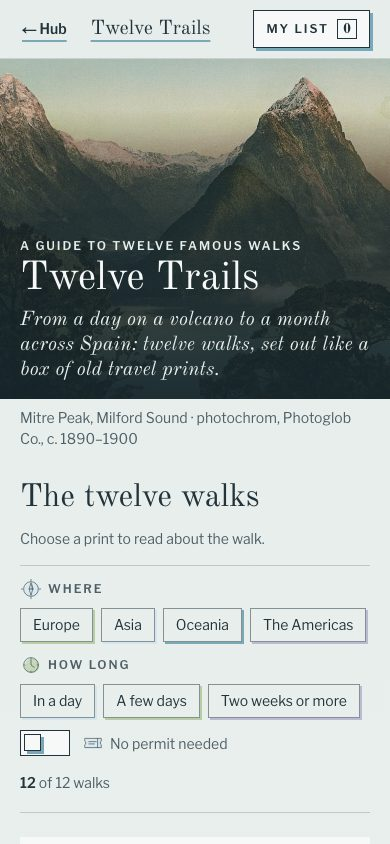
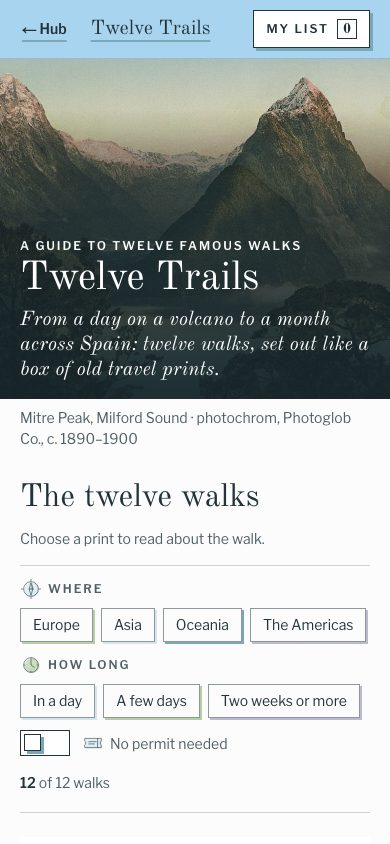
feat: Dawn warms up: dawn sky field, first-light gold for chosen things, photos in their own colour

diff --git a/src/app/design-systems/dawn/page.tsx b/src/app/design-systems/dawn/page.tsx
@@ -4,7 +4,7 @@ import { CONTROL_STATES, ratio, type ControlState } from "@/lib/contrast";
 import { hikes } from "@/data/hikes";
 import { PLATE_ICON_NAMES, PlateDefs, PlateIcon, type PlateIconName } from "@/components/dawn/PlateArt";
 import { DayPlates, EmbossStamp, PLATE_KEYFRAMES } from "@/components/dawn/PlateUI";
-import { DAWN_FOCUS_CSS, DW, caps, display, ui } from "@/components/dawn/ds/tokens";
+import { DAWN_FIELD, DAWN_FOCUS_CSS, DW, caps, display, ui } from "@/components/dawn/ds/tokens";
 import { CatalogueSearch, CountBadge, MountInput, MountSelect, PlateCheck, PlateLink, PlateRadio, PrimaryButton, RadioSwatch, SecondaryButton } from "@/components/dawn/ds/Primitives";
 import { ChipSwatch, PlateChips, PlateTabs, PlateToggle, RouteMap, TabSwatch } from "@/components/dawn/ds/Interactive";
 import { CardSwatch, CatalogueRow, DetailPanel, UIStates } from "@/components/dawn/ds/Pieces";
@@ -55,13 +55,14 @@ function Block({ title, note, children, className = "" }: { title: string; note?
 /* ---------- 1. colour roles ---------- */
 
 const ROLES = [
-  { role: "Background", hex: DW.page, use: "The pale sky of the prints", checks: [] as [string, string, string][] },
+  { role: "Background", hex: DW.page, use: "A white page for reading", checks: [] as [string, string, string][] },
+  { role: "Dawn field", hex: DW.dawnTop, use: "Sky to first light, behind the opening and the bar", checks: [["key ink at the top", DW.text, DW.dawnTop], ["key ink at the horizon", DW.text, DW.dawnLow]] },
   { role: "Surface", hex: DW.surface, use: "The mount a print sits on", checks: [] },
   { role: "Text", hex: DW.text, use: "Key-plate ink, never black", checks: [["on background", DW.text, DW.page], ["on surface", DW.text, DW.surface]] },
   { role: "Muted text", hex: DW.muted, use: "Captions, meta, placeholders", checks: [["on background", DW.muted, DW.page], ["on surface", DW.muted, DW.surface]] },
   { role: "Border", hex: DW.border, use: "Field and control edges", checks: [["on background (3:1 needed)", DW.border, DW.page]] },
   { role: "Accent", hex: DW.accent, use: "Loch, for the one primary action", checks: [["mount text on it", DW.surface, DW.accent]] },
-  { role: "Tints", hex: DW.pine, use: "Sky (hover), pine (selected), lake (pressed, best), heather: plates only, key ink on top", checks: [["key ink on pine", DW.text, DW.pine], ["key ink on lake", DW.text, DW.lake]] },
+  { role: "Tints", hex: DW.sun, use: "Sun (selected, best), sky (hover), lake (pressed), pine and heather (chips): plates only, key ink on top", checks: [["key ink on sun", DW.text, DW.sun], ["key ink on lake", DW.text, DW.lake]] },
 ] satisfies { role: string; hex: string; use: string; checks: [string, string, string][] }[];
 
 function ColourRoles() {
@@ -70,14 +71,16 @@ function ColourRoles() {
       {ROLES.map((r) => (
         <div key={r.role} className="bg-dw-mount p-3">
           {r.role === "Tints" ? (
-            <div className="grid h-12 grid-cols-4 border border-dw-ink sm:h-20">
-              {[DW.pine, DW.sky, DW.lake, DW.heather].map((c) => <span key={c} style={{ background: c }} />)}
+            <div className="grid h-12 grid-cols-5 border border-dw-ink sm:h-20">
+              {[DW.sun, DW.sky, DW.lake, DW.pine, DW.heather].map((c) => <span key={c} style={{ background: c }} />)}
             </div>
+          ) : r.role === "Dawn field" ? (
+            <div className="h-12 border border-dw-ink sm:h-20" style={{ background: DAWN_FIELD }} />
           ) : (
-            <div className="h-12 border border-dw-ink shadow-[3px_3px_0_0_var(--color-dw-sky)] sm:h-20" style={{ background: r.hex }} />
+            <div className="h-12 border border-dw-ink shadow-[3px_3px_0_0_var(--color-dw-lake)] sm:h-20" style={{ background: r.hex }} />
           )}
           <p className={`${display} mt-3 text-xl leading-none`}>{r.role}</p>
-          <p className={`${ui} mt-1 text-xs text-dw-muted`}>{r.role === "Tints" ? `${DW.pine} ${DW.sky} ${DW.lake} ${DW.heather}` : r.hex} · {r.use}</p>
+          <p className={`${ui} mt-1 text-xs text-dw-muted`}>{r.role === "Tints" ? `${DW.sun} ${DW.sky} ${DW.lake} ${DW.pine} ${DW.heather}` : r.role === "Dawn field" ? `${DW.dawnTop} → ${DW.dawnLow}` : r.hex} · {r.use}</p>
           {r.checks.map(([label, fg, bg]) => (
             <p key={label} className={`${ui} text-xs`}>
               <span className="font-semibold">{ratio(fg, bg)}</span> <span className="text-dw-muted">{label}</span>

diff --git a/src/components/dawn/ds/Interactive.tsx b/src/components/dawn/ds/Interactive.tsx
@@ -13,7 +13,7 @@ import { t12, t14, t24 } from "./type";
 /** One tab in a forced state. Selected: a pine plate under the label, a key rule beneath, in register. */
 export function TabSwatch({ force, label = "Route" }: { force: ControlState; label?: string }) {
   const plate =
-    force === "selected" ? { bg: DW.pine, t: "translate(0,0)", o: 1 } :
+    force === "selected" ? { bg: DW.sun, t: "translate(0,0)", o: 1 } :
     force === "hover" ? { bg: DW.sky, t: "translate(0,0)", o: 1 } :
     force === "pressed" ? { bg: DW.lake, t: "translate(0,0)", o: 0.6 } : null;
   return (
@@ -52,7 +52,7 @@ export function PlateTabs({ tabs, panels, idPrefix = "dw", panelClassName }: { t
               }}
               className={`group relative whitespace-nowrap px-3 pb-2 pt-2.5 ${ui} text-sm ${on ? "font-semibold text-dw-ink" : "text-dw-ink"} active:translate-y-px ${focusRing}`}
             >
-              <span aria-hidden="true" className={`absolute inset-x-0 bottom-0 top-1 ${slow} ${on ? "translate-x-0 translate-y-0 bg-dw-pine opacity-100" : "translate-x-[3px] translate-y-[6px] bg-dw-sky opacity-0 group-hover:translate-x-0 group-hover:translate-y-0 group-hover:opacity-100 group-active:bg-dw-lake/60"}`} />
+              <span aria-hidden="true" className={`absolute inset-x-0 bottom-0 top-1 ${slow} ${on ? "translate-x-0 translate-y-0 bg-dw-sun opacity-100" : "translate-x-[3px] translate-y-[6px] bg-dw-sky opacity-0 group-hover:translate-x-0 group-hover:translate-y-0 group-hover:opacity-100 group-active:bg-dw-lake/60"}`} />
               <span className="relative">{t}</span>
               <span aria-hidden="true" className={`absolute inset-x-0 -bottom-px h-[3px] bg-dw-ink ${slow} ${on ? "scale-x-100" : "scale-x-0"}`} />
             </button>
@@ -126,8 +126,8 @@ export function PlateToggle({ label, icon, initial = false, force, checked, onCh
   const knobShadow = on || force === "hover" ? `0 0 0 0 ${DW.lake}` : force === "pressed" ? `inset 0 1px 2px rgba(34,51,58,.4)` : `3px 3px 0 0 ${DW.lake}`;
   const track = (
     <span
-      className={`relative block h-[26px] w-[50px] shrink-0 border-[1.5px] ${disabled ? "border-dashed border-dw-muted" : "border-dw-ink"} ${force ? "" : "group-hover:!bg-dw-sky group-active:!bg-dw-lake dw-crop"} ${on && !force ? "group-hover:!bg-dw-pine" : ""} ${force === "focus" ? focusForced : ""}`}
-      style={{ background: on ? DW.pine : force === "pressed" ? DW.lake : force === "hover" ? DW.sky : DW.surface, transition: move }}
+      className={`relative block h-[26px] w-[50px] shrink-0 border-[1.5px] ${disabled ? "border-dashed border-dw-muted" : "border-dw-ink"} ${force ? "" : "group-hover:!bg-dw-sky group-active:!bg-dw-lake dw-crop"} ${on && !force ? "group-hover:!bg-dw-sun" : ""} ${force === "focus" ? focusForced : ""}`}
+      style={{ background: on ? DW.sun : force === "pressed" ? DW.lake : force === "hover" ? DW.sky : DW.surface, transition: move }}
     >
       <span
         className={`absolute top-[3px] h-[17px] w-[17px] border-[1.5px] bg-dw-mount ${disabled ? "border-dashed border-dw-muted" : "border-dw-ink"} ${force ? "" : "group-hover:!shadow-none group-active:translate-y-px"}`}

diff --git a/src/app/trails/TrailsIndex.tsx b/src/app/trails/TrailsIndex.tsx
@@ -1,6 +1,7 @@
 "use client";
 // The index: the title beside one opening print, then all twelve walks as mounted prints you can take in at a glance.
 import { useMemo } from "react";
+import { DAWN_FIELD } from "@/components/dawn/ds/tokens";
 import { hikes } from "@/data/hikes";
 import rawPhotos from "@/data/trailPhotos.json";
 import { TonedPhoto, creditLine, type TrailPhoto } from "@/components/dawn/Toned";
@@ -39,23 +40,24 @@ export default function TrailsIndex() {
         </figure>
       </header>
 
-      {/* From 640px: the title beside the mounted print. */}
-      <header className="mt-14 hidden grid-cols-1 items-center gap-8 sm:grid lg:grid-cols-[1fr_1.1fr] lg:gap-12">
+      {/* From 640px: the title beside the mounted print, on the dawn field (sky to first light), the full width of the window. */}
+      <header className="relative isolate hidden grid-cols-1 items-center gap-8 py-14 sm:grid lg:grid-cols-[1fr_1.1fr] lg:gap-12">
+        <span aria-hidden="true" className="absolute inset-y-0 left-1/2 -z-10 w-screen -translate-x-1/2" style={{ background: DAWN_FIELD }} />
         <div>
-          <p className={`${t12} text-dw-muted`}>A guide to twelve famous walks</p>
+          <p className={`${t12} text-dw-ink`}>A guide to twelve famous walks</p>
           <h1 className={`${t96} mt-4`}>Twelve Trails</h1>
-          <p className={`${t24} mt-6 max-w-md italic text-dw-muted`}>From a day on a volcano to a month across Spain: twelve walks, set out like a box of old travel prints.</p>
+          <p className={`${t24} mt-6 max-w-md italic text-dw-ink`}>From a day on a volcano to a month across Spain: twelve walks, set out like a box of old travel prints.</p>
           <p className="mt-8"><PlateLink href="#walks" size="note">See the twelve walks ↓</PlateLink></p>
         </div>
         <figure className="m-0">
           <div className="bg-dw-mount p-3.5 shadow-[0_1px_0_rgba(34,51,58,.15)]">
             <TonedPhoto photo={OPENING} sizes="(min-width: 1024px) 600px, 100vw" priority className="aspect-[4/3] border-[3px] border-dw-ink" />
           </div>
-          <figcaption className={`${t14} mt-3 text-dw-muted`}>{creditLine(OPENING)}</figcaption>
+          <figcaption className={`${t14} mt-3 text-dw-ink`}>{creditLine(OPENING)}</figcaption>
         </figure>
       </header>
 
-      <section id="walks" aria-labelledby="walks-title" className="mt-8 scroll-mt-16 sm:mt-28">
+      <section id="walks" aria-labelledby="walks-title" className="mt-8 scroll-mt-16 sm:mt-16">
         <div className="flex flex-wrap items-baseline justify-between gap-3">
           <h2 id="walks-title" className={t48}>The twelve walks</h2>
           <p className={`${t14} text-dw-muted`}>Choose a print to read about the walk.</p>

diff --git a/src/components/dawn/ds/Guide.tsx b/src/components/dawn/ds/Guide.tsx
@@ -62,7 +62,7 @@ export const stopState: Record<ControlState, string> = {
   hover: "bg-dw-sky shadow-none",
   focus: "bg-dw-mount shadow-[2px_2px_0_0_var(--color-dw-lake)] dw-crop is-focus",
   pressed: "translate-y-px bg-dw-lake shadow-[inset_0_2px_4px_rgba(34,51,58,.45)]",
-  selected: "bg-dw-pine shadow-[inset_0_-3px_0_0_var(--color-dw-ink)]",
+  selected: "bg-dw-sun shadow-[inset_0_-3px_0_0_var(--color-dw-ink)]",
   disabled: "",
 };
 
@@ -71,10 +71,10 @@ export function StopSwatch({ force }: { force: ControlState }) {
   return <span className={`${stopBase} ${stopState[force]}`}><PlateIcon name="mountain" size={28} /></span>;
 }
 
-/** Each month is a small plate. Best: the deepest tint, printed, with a key rule beneath. Possible: a pale wash.
+/** Each month is a small plate. Best: the sun plate (first light), printed, with a key rule beneath. Possible: a pale wash.
  *  Closed or not advised: left unprinted, a dashed outline, the same mark as a disabled control. */
 const LEVEL: Record<Level, { label: string; look: string }> = {
-  best: { label: "Best", look: "border-dw-ink bg-dw-lake text-dw-ink shadow-[inset_0_-3px_0_0_var(--color-dw-ink)]" },
+  best: { label: "Best", look: "border-dw-ink bg-dw-sun text-dw-ink shadow-[inset_0_-3px_0_0_var(--color-dw-ink)]" },
   possible: { label: "Possible", look: "border-dw-border bg-dw-sky text-dw-ink" },
   closed: { label: "Closed or not advised", look: "border-dashed border-dw-border bg-transparent text-dw-muted" },
 };
@@ -145,7 +145,7 @@ export function HeroPlate({ photo, count, onOpen, label, priority = false }: { p
   return (
     <button type="button" onClick={onOpen} aria-label={label} className={`group block w-full text-left sm:p-3.5 ${card.rest} ${cardLive}`}>
       <TonedPhoto photo={photo} sizes="(min-width: 1024px) 660px, 100vw" priority={priority} className={`aspect-[3/2] sm:aspect-[4/3] sm:border-[3px] sm:border-dw-ink ${colourUp}`} />
-      <span className={`${t12} absolute bottom-3 right-3 flex items-center gap-1.5 border sm:bottom-7 sm:right-7 border-dw-ink bg-dw-mount px-3 py-2 transition-colors duration-[600ms] group-hover:bg-dw-pine`}><PlateIcon name="camera" size={20} />{count} plates →</span>
+      <span className={`${t12} absolute bottom-3 right-3 flex items-center gap-1.5 border sm:bottom-7 sm:right-7 border-dw-ink bg-dw-mount px-3 py-2 transition-colors duration-[600ms] group-hover:bg-dw-sky`}><PlateIcon name="camera" size={20} />{count} plates →</span>
     </button>
   );
 }

diff --git a/src/components/dawn/Toned.tsx b/src/components/dawn/Toned.tsx
@@ -1,6 +1,7 @@
 "use client";
-// A trail photo. Photochrom prints are shown as they are; modern photos get treatment A, the photochrom look:
-// half the colour lifted out, warm cream in the highlights, soft contrast, lifted blacks. Chosen 11 Oct 2026.
+// A trail photo, shown in its own colour: photochrom prints as printed, modern photos as taken. (Until 11 Oct 2026
+// modern photos were toned to look old, treatment A; it made the guide feel grey, so the site dropped it. The mood
+// board still shows the treatment as an early decision.)
 // While it loads, the frame shows the tint plates printing, sky first; once loaded the photo's colour fades in.
 // If it fails, the frame says so in Dawn's error state.
 import { useEffect, useRef, useState } from "react";
@@ -53,7 +54,6 @@ function NotPrinted({ alt }: { alt: string }) {
 
 /** `force` shows a state on purpose, for the design system. */
 export function TonedPhoto({ photo, sizes, priority = false, className = "", force }: { photo: TrailPhoto; sizes: string; priority?: boolean; className?: string; force?: PhotoState }) {
-  const modern = photo.kind === "modern";
   const ref = useRef<HTMLImageElement>(null);
   const [live, setLive] = useState<PhotoState>("loading");
   // an image can finish before the page wakes up; read where it got to
@@ -77,9 +77,7 @@ export function TonedPhoto({ photo, sizes, priority = false, className = "", for
             onLoad={() => setLive("ready")}
             onError={() => setLive("error")}
             className={`object-cover transition-opacity duration-[600ms] ease-[cubic-bezier(.45,0,.2,1)] ${state === "ready" ? "opacity-100" : "opacity-0"}`}
-            style={modern ? { filter: TONE_FILTER } : undefined}
           />
-          {modern && state === "ready" && <span aria-hidden="true" className="absolute inset-0 opacity-55 mix-blend-soft-light" style={{ background: TONE_OVERLAY }} />}
         </>
       )}
       {state === "error" && <NotPrinted alt={photo.alt} />}
@@ -89,5 +87,5 @@ export function TonedPhoto({ photo, sizes, priority = false, className = "", for
 
 /** One line of credit, as the prints carried theirs. */
 export function creditLine(p: TrailPhoto): string {
-  return p.kind === "photochrom" ? `${p.place} · photochrom, ${p.author}, ${p.date}` : `${p.place} · photo ${p.author} / Unsplash, toned`;
+  return p.kind === "photochrom" ? `${p.place} · photochrom, ${p.author}, ${p.date}` : `${p.place} · photo ${p.author} / Unsplash`;
 }

diff --git a/src/app/mood-boards/dawn/page.tsx b/src/app/mood-boards/dawn/page.tsx
@@ -22,10 +22,11 @@ const PAGE = "linear-gradient(180deg, var(--color-dw-page) 0%, var(--color-dw-pa
 const PALETTE = [
   { name: "Key", hex: "#22333a", role: "Text, key lines · 12.36:1", swatch: "key", from: "Deep water, Milford Sound, darkened" },
   { name: "Loch", hex: "#2c5868", role: "The one action · 7.33:1", swatch: "loch", from: "Loch Linnhe, darkened for contrast" },
+  { name: "Sun", hex: T.sun, role: "Selected, best", swatch: "sun", from: "Sunlit sky over Chamonix, moved toward yellow" },
   { name: "Sky", hex: T.sky, role: "Hover", swatch: "sky", from: "Sky over the Mer de Glace, cooled toward blue" },
-  { name: "Pine", hex: T.pine, role: "Selected", swatch: "pine", from: "The meadow by Mirror Lake, as printed" },
-  { name: "Lake", hex: T.lake, role: "Pressed, best", swatch: "lake", from: "Water of Milford Sound, lightened and cooled" },
-  { name: "Heather", hex: T.heather, role: "Tint", swatch: null, from: "Derived: a cool lilac for rock in shadow" },
+  { name: "Lake", hex: T.lake, role: "Pressed", swatch: "lake", from: "Water of Milford Sound, lightened and cooled" },
+  { name: "Pine", hex: T.pine, role: "Chips, marks", swatch: "pine", from: "The meadow by Mirror Lake, as printed" },
+  { name: "Heather", hex: T.heather, role: "Chips, marks", swatch: null, from: "Derived: a cool lilac for rock in shadow" },
 ];
 
 /* ---------- pieces made for this board ---------- */
@@ -177,7 +178,7 @@ const tiles: Tile[] = [
   { kind: "made", id: "stamp", caption: "Badge: an embossed stamp, pressed into the mount" },
   { kind: "made", id: "button-states", caption: "Button states: rest, in register, pressed, focus, unprinted" },
   { kind: "photo", file: "lake-te-anau.jpg", caption: "Lake Te Anau: still water, one small boat" },
-  { kind: "made", id: "treatment", caption: "A modern photo joins the set: toned like the prints, half the colour out, warm cream highlights" },
+  { kind: "made", id: "treatment", caption: "Early idea: tone modern photos like the prints. Dropped on the site: it made the guide grey" },
   { kind: "photo", file: "chamonix-floria.jpg", caption: "The Chamonix valley, where the Tour du Mont Blanc begins" },
   { kind: "photo", file: "cleddau-valley.jpg", caption: "Cleddau Valley, Milford Sound: one figure for scale" },
   { kind: "photo", file: "milford-windbound.jpg", caption: "Milford Sound from Windbound Point: depth from paler, not darker" },

diff --git a/src/components/dawn/ds/tokens.ts b/src/components/dawn/ds/tokens.ts
@@ -1,20 +1,27 @@
 // Dawn design tokens: the cool half of the photochrom prints (sky, water, ice). The classes use the @theme tokens in
 // globals.css (text-dw-ink, bg-dw-mount …); these hex values mirror them for SVG fills and contrast checks.
 export const DW = {
-  page: "#e6edeb", // background: pale sky
-  surface: "#f6f9f7", // the mount a print sits on
+  page: "#fbfcfb", // background: a white reading page
+  surface: "#ffffff", // the mount a print sits on
   text: "#22333a", // key plate ink
   muted: "#4f5f66",
   border: "#6f8287", // control borders, 3:1 or more on the page
   accent: "#2c5868", // loch: the one primary action
   accentHover: "#356677",
   accentPressed: "#244a58",
-  // tint plates, each a clearly different hue so states read apart: sky = hover, pine = selected, lake = pressed and best
+  // tint plates, each a clearly different hue so states read apart: sky = hover, sun = selected and best, lake = pressed
+  sun: "#f3d36e", // selected, best months: first light
+  dawnTop: "#a8d4f0", // the dawn field: sky at the top
+  dawnMid: "#cfe6f3",
+  dawnLow: "#f6e6b0", // first light on the horizon
   pine: "#b7cea5",
   sky: "#d5e5f0",
   lake: "#79a8b8",
   heather: "#bdb8d4",
 } as const;
+
+/** The dawn field behind the opening and the bar: sky at the top to first light on the horizon. */
+export const DAWN_FIELD = "linear-gradient(180deg, var(--color-dw-dawn-top) 0%, var(--color-dw-dawn-mid) 55%, var(--color-dw-dawn-low) 100%)";
 
 export const display = "font-[family-name:var(--dw-display)]";
 export const ui = "font-[family-name:var(--dw-ui)]";
@@ -32,7 +39,7 @@ export const card = {
   hover: "bg-dw-mount shadow-[4px_4px_0_0_var(--color-dw-lake)]",
   focus: "bg-dw-mount shadow-[0_1px_0_rgba(34,51,58,.15)] dw-crop is-focus",
   pressed: "bg-dw-mount translate-y-px shadow-[inset_0_2px_4px_rgba(34,51,58,.2)]",
-  selected: "bg-dw-pine shadow-[inset_0_-3px_0_0_var(--color-dw-ink)]",
+  selected: "bg-dw-sun shadow-[inset_0_-3px_0_0_var(--color-dw-ink)]",
   disabled: "",
 } as const;
 /** Live card states on the element itself. */

diff --git a/src/components/dawn/ds/Primitives.tsx b/src/components/dawn/ds/Primitives.tsx
@@ -19,7 +19,7 @@ export function Tick() {
 }
 
 /** Selected, for every button: a pine plate laid under in register, a key rule beneath, and a tick. */
-const selectedLook = "border-dw-ink bg-dw-pine text-dw-ink shadow-[inset_0_-3px_0_0_var(--color-dw-ink)]";
+const selectedLook = "border-dw-ink bg-dw-sun text-dw-ink shadow-[inset_0_-3px_0_0_var(--color-dw-ink)]";
 const selectedLive = `active:translate-x-px active:translate-y-px active:bg-dw-lake active:shadow-[inset_0_2px_4px_rgba(34,51,58,.45)] ${focusRing}`;
 
 /** `selected` makes a button a toggle (aria-pressed); `small` is for buttons that sit inside cards and panels. */
@@ -176,7 +176,7 @@ export function PlateCheck({ force, label = "Huts on the way", defaultChecked = 
     <label className={`group relative flex items-center gap-3 ${disabled ? "cursor-not-allowed" : "cursor-pointer"}`}>
       <input type="checkbox" className="peer sr-only" defaultChecked={checked} disabled={disabled} />
       <span
-        className={`relative grid h-5 w-5 shrink-0 place-items-center border-[1.5px] bg-dw-mount ${slow} peer-checked:!bg-dw-pine peer-checked:[&_.tick]:opacity-100 ${box} ${force ? "" : "group-hover:bg-dw-sky peer-active:translate-x-px peer-active:translate-y-px peer-active:bg-dw-lake dw-crop"} ${checked ? "bg-dw-pine" : ""}`}
+        className={`relative grid h-5 w-5 shrink-0 place-items-center border-[1.5px] bg-dw-mount ${slow} peer-checked:!bg-dw-sun peer-checked:[&_.tick]:opacity-100 ${box} ${force ? "" : "group-hover:bg-dw-sky peer-active:translate-x-px peer-active:translate-y-px peer-active:bg-dw-lake dw-crop"} ${checked ? "bg-dw-sun" : ""}`}
       >
         <svg viewBox="0 0 16 16" className={`tick h-3.5 w-3.5 transition-opacity duration-300 ${checked ? "opacity-100" : "opacity-0"}`} aria-hidden="true">
           <path d="M2.5 8.5 L6.5 12 L13.5 3.5" fill="none" stroke={DW.text} strokeWidth="2" strokeLinecap="square" />

diff --git a/src/app/globals.css b/src/app/globals.css
@@ -16,19 +16,23 @@
    `static` keeps every variable in the CSS, so arbitrary values and inline styles can use var(--color-dw-*) too.
    src/components/dawn/ds/tokens.ts mirrors these for SVG and contrast checks; a test keeps the two equal. */
 @theme static {
-  --color-dw-page: #e6edeb;      /* background: pale sky */
-  --color-dw-page-mid: #eaf0ee;  /* the page gradient, lower down */
-  --color-dw-page-low: #f0f5f3;
-  --color-dw-mount: #f6f9f7;     /* surface: the mount a print sits on */
+  --color-dw-page: #fbfcfb;      /* background: a white reading page */
+  --color-dw-page-mid: #fbfcfb;  /* (kept flat: the colour lives in the dawn field) */
+  --color-dw-page-low: #fbfcfb;
+  --color-dw-mount: #ffffff;     /* surface: the mount a print sits on */
   --color-dw-ink: #22333a;       /* text: key plate ink */
   --color-dw-muted: #4f5f66;     /* captions, meta, placeholders */
   --color-dw-border: #6f8287;    /* control borders */
   --color-dw-loch: #2c5868;      /* accent: the one primary action */
   --color-dw-loch-hover: #356677;
   --color-dw-loch-pressed: #244a58;
+  --color-dw-dawn-top: #a8d4f0;  /* the dawn field: sky at the top … */
+  --color-dw-dawn-mid: #cfe6f3;
+  --color-dw-dawn-low: #f6e6b0;  /* … to first light on the horizon */
+  --color-dw-sun: #f3d36e;       /* tint plate: selected (chosen), best months */
   --color-dw-sky: #d5e5f0;       /* tint plate: hover (a look) */
-  --color-dw-pine: #b7cea5;      /* tint plate: selected (chosen) */
-  --color-dw-lake: #79a8b8;      /* tint plate: pressed, best months */
+  --color-dw-pine: #b7cea5;      /* tint plate: chips and marks */
+  --color-dw-lake: #79a8b8;      /* tint plate: pressed, every off-register plate */
   --color-dw-heather: #bdb8d4;   /* tint plate: a fourth hue for chips and marks */
 }
 

diff --git a/src/app/trails/Colophon.tsx b/src/app/trails/Colophon.tsx
@@ -17,7 +17,7 @@ export function Colophon() {
           sources and notes. Rules, closures and permits change, so check them before you travel. Your list lasts for this visit only: nothing is stored.
         </p>
         <p className="mt-2 max-w-prose">
-          Photochrom prints: Library of Congress, Photochrom Print Collection (no known restrictions). Other photographs: Unsplash (Unsplash License), toned to sit with the prints.
+          Photochrom prints: Library of Congress, Photochrom Print Collection (no known restrictions). Other photographs: Unsplash (Unsplash License), shown in their own colour.
         </p>
         <details className="mt-3">
           <summary className={`w-fit cursor-pointer ${plateLinkClass("note")}`}>Every photograph and its credit</summary>

diff --git a/src/app/page.tsx b/src/app/page.tsx
@@ -73,6 +73,7 @@ const FIXED = [
   "Best months were shown by colour alone: the range is now written out, and each best month has a rule beneath.",
   "Hover and selected tints were almost the same (1.07:1 apart in lightness): new sky, pine and lake tints, one per state.",
   "The Dawn design system page was 528px wide on a phone: its component grid now has one column there.",
+  "The guide looked cold and grey for a travel site: photos are back in their own colour, a dawn sky sits behind the opening, and chosen things wear first-light gold.",
 ];
 
 const card =

diff --git a/src/components/dawn/PlateArt.tsx b/src/components/dawn/PlateArt.tsx
@@ -10,6 +10,7 @@ export const SKY = "#e6edeb"; // page
 export const LOCH = "#2c5868"; // primary action, Loch Linnhe darkened for contrast (7.33:1 with mount)
 // Dawn keeps only the cool half of the prints (sky, water, ice); the warm earth tones belong to Field Notes.
 export const T = {
+  sun: "#f3d36e", // sunlit sky over Chamonix, moved toward yellow (no orange)
   pine: "#b7cea5", // the meadow by Mirror Lake, as printed
   sky: "#d5e5f0", // sky over the Mer de Glace, cooled toward blue
   lake: "#79a8b8", // water of Milford Sound, lightened and cooled
